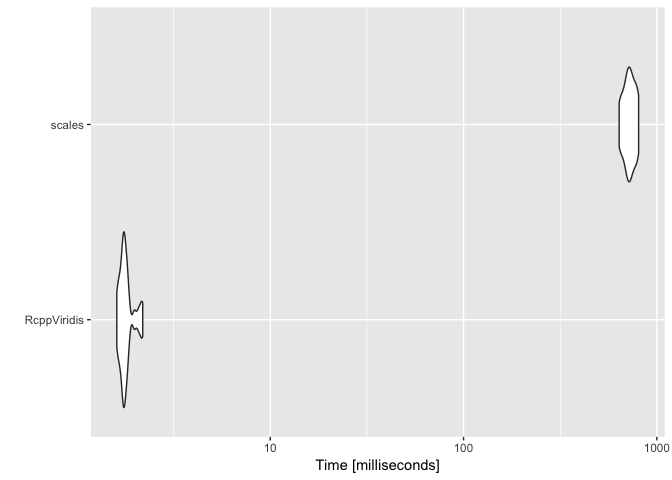
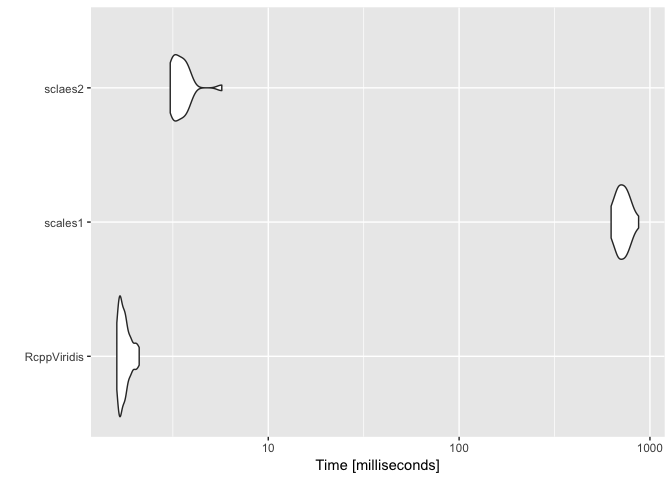
updated benchmarks

diff --git a/src/RcppViridis_Base.cpp b/src/RcppViridis_Base.cpp
@@ -27,7 +27,7 @@ Rcpp::NumericVector m_rescale( Rcpp::NumericVector x ) {
 	Rcpp::NumericVector rng = m_range(x);
 	Rcpp::NumericVector diff_from = m_diff(rng); // should only be one value!
 
-	double this_diff = std::max(1.0, diff_from[0]);
+	double this_diff = std::max(1.0, diff_from[0]);  // TODO(is this right? what am I doing?)
 
 	int i = 0;
 

diff --git a/README.md b/README.md
@@ -93,23 +93,27 @@ See for yourself
 library(microbenchmark)
 library(ggplot2)
 library(scales)
+library(viridisLite)
 
 n <- 1e4
 df <- data.frame(x = rnorm(n = n))
 
 m <- microbenchmark(
   RcppViridis = { RcppViridis::colour_variables(x = df$x) },
-  scales = { scales::col_numeric(palette = viridisLite::viridis(n), domain = unique(df$x))(df$x) },
+  scales1 = { scales::col_numeric(palette = viridisLite::viridis(n), domain = unique(df$x))(df$x) },
+  sclaes2 = { col_numeric(palette = rgb(subset(viridis.map, opt=="D")[, 1:3]), domain = range(df$x))(df$x) },
   times = 25
 )
 m
 # Unit: milliseconds
 #         expr        min         lq       mean     median         uq
-#  RcppViridis   1.607608   1.718504   1.794033   1.752147   1.817238
-#       scales 638.290248 694.100944 723.357659 721.268412 760.871100
+#  RcppViridis   1.608349   1.674193   1.766332   1.735261   1.803886
+#      scales1 625.917051 677.423758 722.045525 715.883733 760.865123
+#      sclaes2   3.063856   3.146888   3.514221   3.416008   3.671189
 #         max neval
-#    2.188736    25
-#  804.561984    25
+#    2.106551    25
+#  872.150447    25
+#    5.707653    25
 
 autoplot(m)
 # Coordinate system already present. Adding new coordinate system, which will replace the existing one.
